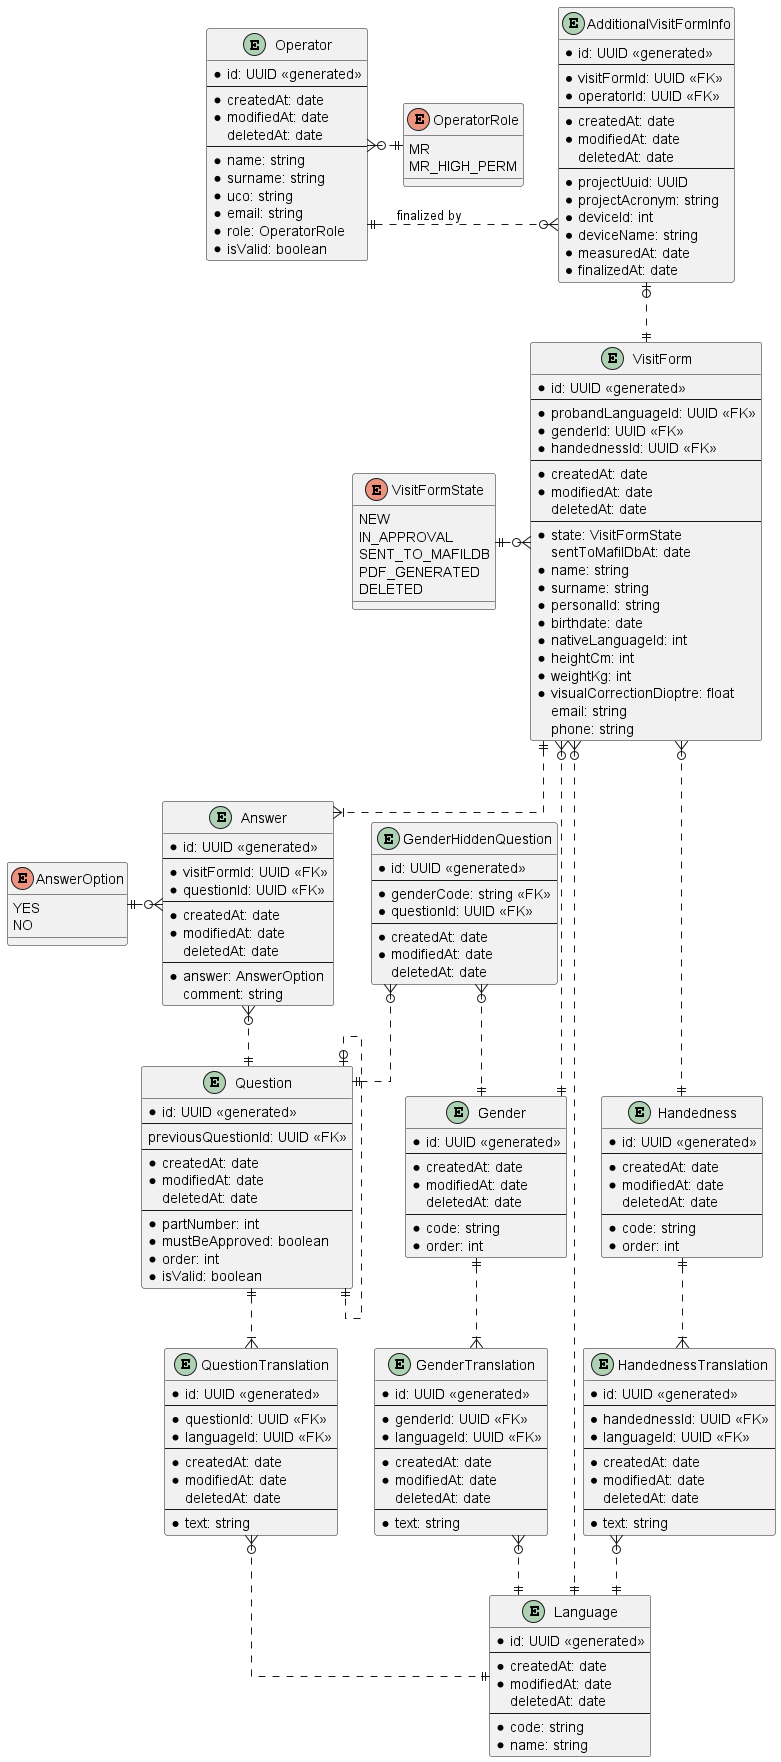
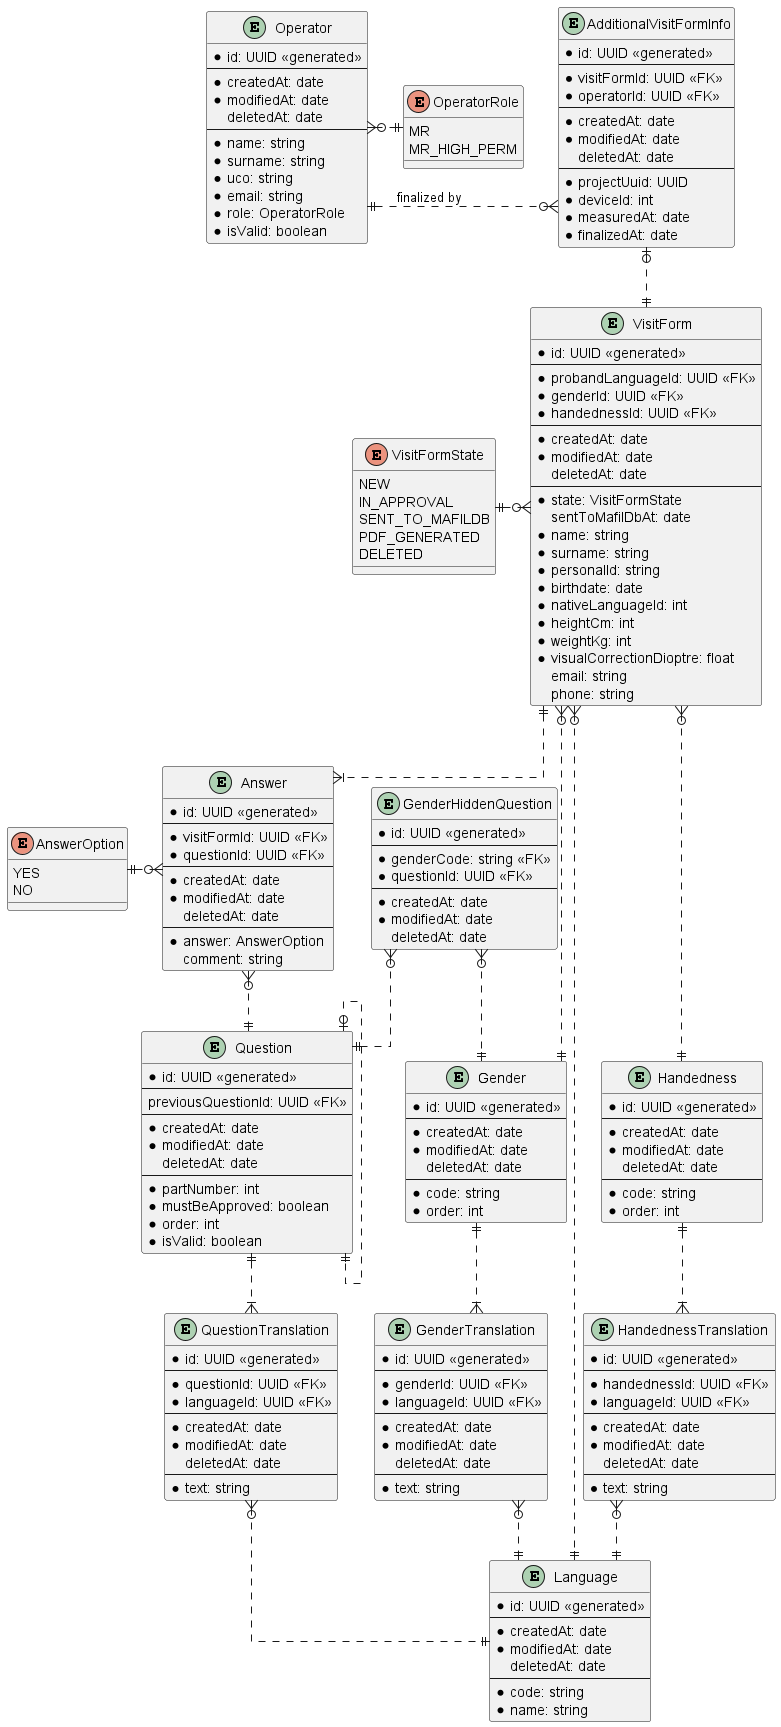
feat: removed project acronym and device name from the additionalVisitFormInfo in the database model

diff --git a/frontend/src/util/server_API/calls.ts b/frontend/src/util/server_API/calls.ts
@@ -6,9 +6,9 @@ import {
   ValidatedProbandFormData,
 } from "@app/model/form";
 import { ProbandVisitLanguageCode } from "@app/model/visit";
+import { IApprovalRoomTableVisitForm } from "@app/model/visitForm";
 import { serverApi } from "@app/util/axios/serverApi";
 import {
-  IApprovalRoomTableVisitFormDTO,
   IApprovalRoomVisitFormIncludingQuestionsDTO,
   ICreateDuplicatedVisitFormForApprovalInput,
   ICreateProbandVisitFormInput,
@@ -28,6 +28,7 @@ import {
   VisitFormState,
 } from "@app/util/server_API/dto";
 import { createServerApiCallError } from "../error-handling/server-utils";
+import { fetchProject } from "../mafildb_API/calls";
 import { CREATE_VISIT_FORM, REMOVE_VISIT_FORM, UPDATE_VISIT_FORM } from "./mutations";
 import {
   AUTHENTICATE_OPERATOR,
@@ -304,18 +305,26 @@ export const fetchWaitingRoomVisitForm = async (
   return { ...visitForm, probandLanguageCode: visitForm.probandLanguage.code, answersIncludingQuestions };
 };
 
-export const fetchApprovalRoomTableVisitForms = async (): Promise<IApprovalRoomTableVisitFormDTO[] | never> => {
+export const fetchApprovalRoomTableVisitForms = async (): Promise<IApprovalRoomTableVisitForm[] | never> => {
   const variables = { state: "IN_APPROVAL" };
   const { data } = await serverApi.post<ApprovalRoomTableVisitFormsResponse>("", {
     query: GET_APPROVAL_ROOM_TABLE_VISIT_FORMS,
     variables,
   });
 
-  if (data.data) {
-    return data.data.visitForms;
+  if (data.data === null || data.data === undefined) {
+    throw createServerApiCallError(data.errors);
   }
 
-  throw createServerApiCallError(data.errors);
+  return Promise.all(
+    data.data.visitForms.map(async (visitForm) => {
+      const project = await fetchProject(visitForm.additionalInfo.projectUuid);
+      return {
+        ...visitForm,
+        project,
+      };
+    })
+  );
 };
 
 export const fetchApprovalRoomVisitForm = async (
@@ -414,9 +423,7 @@ export const createDuplicatedVisitFormForApproval = async (
       phone: visitFormData.phone,
       additionalInfo: {
         projectUuid: visitFormData.project.uuid,
-        projectAcronym: visitFormData.project.acronym,
         deviceId: visitFormData.device.id,
-        deviceName: visitFormData.device.name,
         measuredAt: visitFormData.measuredAt,
         finalizerId,
         finalizedAt: new Date(),
@@ -464,9 +471,7 @@ export const sendVisitFormForApproval = async (
       phone: visitFormData.phone,
       additionalInfo: {
         projectUuid: visitFormData.project.uuid,
-        projectAcronym: visitFormData.project.acronym,
         deviceId: visitFormData.device.id,
-        deviceName: visitFormData.device.name,
         measuredAt: visitFormData.measuredAt,
         finalizedAt: new Date(),
         finalizerId,

diff --git a/frontend/src/pages/ApprovalRoomTablePage.tsx b/frontend/src/pages/ApprovalRoomTablePage.tsx
@@ -7,8 +7,8 @@ import { TranslatedEntityTableCell } from "@app/components/table/TranslatedEntit
 import { ApprovalRoomTableActionButtons } from "@app/components/table/actions/ApprovalRoomTableActionButtons";
 import { defaultTableProps } from "@app/components/table/default-table-props";
 import { defaultNS } from "@app/i18n/i18n";
+import { IApprovalRoomTableVisitForm } from "@app/model/visitForm";
 import { fetchApprovalRoomTableVisitForms } from "@app/util/server_API/calls";
-import { IApprovalRoomTableVisitFormDTO } from "@app/util/server_API/dto";
 import { PageContainer } from "./PageContainer";
 
 const createdAtFormat = "d.M.y H:mm";
@@ -23,7 +23,7 @@ const ApprovalRoomTablePage = () => {
     isError,
   } = useQuery({ queryKey: ["approvalRoomVisitForms"], queryFn: fetchApprovalRoomTableVisitForms });
 
-  const columns = useMemo<MRTColumnDef<IApprovalRoomTableVisitFormDTO>[]>(
+  const columns = useMemo<MRTColumnDef<IApprovalRoomTableVisitForm>[]>(
     () => [
       {
         header: t("header.registrationDate"),
@@ -38,7 +38,7 @@ const ApprovalRoomTablePage = () => {
       },
       {
         header: t("header.project"),
-        accessorKey: "additionalInfo.projectAcronym",
+        accessorKey: "project.acronym",
         minSize: 300,
       },
       {
@@ -67,7 +67,7 @@ const ApprovalRoomTablePage = () => {
         header: t("header.gender"),
         id: "gender",
         // eslint-disable-next-line react/no-unstable-nested-components
-        Cell: ({ row }: { row: MRTRow<IApprovalRoomTableVisitFormDTO> }) => (
+        Cell: ({ row }: { row: MRTRow<IApprovalRoomTableVisitForm> }) => (
           <TranslatedEntityTableCell translations={row.original.gender.translations} />
         ),
         maxSize: 0,
@@ -83,7 +83,7 @@ const ApprovalRoomTablePage = () => {
         id: "actionButtons",
         columnDefType: "display", // turns off data column features like sorting, filtering, etc.
         // eslint-disable-next-line react/no-unstable-nested-components
-        Cell: ({ row }: { row: MRTRow<IApprovalRoomTableVisitFormDTO> }) => (
+        Cell: ({ row }: { row: MRTRow<IApprovalRoomTableVisitForm> }) => (
           <ApprovalRoomTableActionButtons visitFormId={row.original.id} />
         ),
         maxSize: 0,

diff --git a/frontend/src/util/mafildb_API/calls.ts b/frontend/src/util/mafildb_API/calls.ts
@@ -22,6 +22,7 @@ import {
   fetchDuplicatedVisitDev,
   fetchLanguageDev,
   fetchLanguagesDev,
+  fetchProjectDev,
   fetchProjectsDev,
   fetchRecentVisitsDev,
   fetchVisitDetailDev,
@@ -45,6 +46,7 @@ import {
   MDB_GetDevicesResponse,
   MDB_GetLanguageResponse,
   MDB_GetLanguagesResponse,
+  MDB_GetProjectResponse,
   MDB_GetProjectsResponse,
   MDB_GetVisitFilesResponse,
   MDB_GetVisitResponse,
@@ -107,6 +109,20 @@ export const fetchProjects = async (): Promise<IProject[]> => {
   }
 
   return data.results.map((projectDTO) => ({ ...projectDTO }));
+};
+
+export const fetchProject = async (uuid: string): Promise<IProject> => {
+  if (import.meta.env.DEV) {
+    return fetchProjectDev(uuid);
+  }
+
+  const { data } = await mafildbApi.get<MDB_GetProjectResponse>(`projects/${uuid}`);
+
+  if (MDB_RESPONSE_ERROR_ATTR in data) {
+    throw new Error(data.detail);
+  }
+
+  return data;
 };
 
 export const fetchDevices = async (): Promise<IDevice[]> => {

diff --git a/backend/src/api/visit-form/visit-form.service.ts b/backend/src/api/visit-form/visit-form.service.ts
@@ -149,9 +149,7 @@ export class VisitFormService {
                   create: {
                     // properties are checked against undefined, so the values here are always non-undefined
                     projectUuid: updateVisitFormInput.additionalInfo.projectUuid ?? "",
-                    projectAcronym: updateVisitFormInput.additionalInfo.projectAcronym ?? "",
                     deviceId: updateVisitFormInput.additionalInfo.deviceId ?? 0,
-                    deviceName: updateVisitFormInput.additionalInfo.deviceName ?? "",
                     measuredAt: updateVisitFormInput.additionalInfo.measuredAt ?? new Date(),
                     finalizedAt: updateVisitFormInput.additionalInfo.finalizedAt ?? new Date(),
                     finalizer: {

diff --git a/frontend/src/util/server_API/dto.ts b/frontend/src/util/server_API/dto.ts
@@ -109,9 +109,7 @@ export interface IWaitingRoomVisitFormIncludingQuestions extends IWaitingRoomTab
 export interface IApprovalRoomTableVisitFormDTO extends IWaitingRoomTableVisitFormDTO {
   additionalInfo: {
     projectUuid: string;
-    projectAcronym: string;
     deviceId: number;
-    deviceName: string;
     measuredAt: Date;
     finalizer: Pick<IOperatorDTO, "username">;
     finalizedAt: Date;
@@ -132,9 +130,7 @@ export interface IApprovalRoomVisitFormIncludingQuestionsDTO extends IApprovalRo
 
 type AdditionalInfo = {
   projectUuid: string;
-  projectAcronym: string;
   deviceId: number;
-  deviceName: string;
   measuredAt: Date;
   finalizerId: string;
   finalizedAt: Date;

diff --git a/backend/src/api/pdf/dto/generate-pdf.args.ts b/backend/src/api/pdf/dto/generate-pdf.args.ts
@@ -45,7 +45,7 @@ export class GeneratePDFArgs extends IntersectionType(
     "email",
     "phone",
   ] as const),
-  PickType(AdditionalVisitFormInfoEntity, ["projectAcronym", "measuredAt"] as const),
+  PickType(AdditionalVisitFormInfoEntity, ["measuredAt"] as const),
   ArgsType
 ) {
   @IsString()
@@ -55,6 +55,11 @@ export class GeneratePDFArgs extends IntersectionType(
   @IsBoolean()
   @Field()
   isPhantom: boolean;
+
+  // MAFILDB project acronym
+  @IsString()
+  @Field()
+  projectAcronym: string;
 
   @IsString()
   @Field()

diff --git a/frontend/src/components/form/inputs/FormAutocompleteProjects.tsx b/frontend/src/components/form/inputs/FormAutocompleteProjects.tsx
@@ -30,7 +30,7 @@ export const FormAutocompleteProjects = ({
           <Autocomplete
             id={name}
             options={options === undefined ? [] : options}
-            getOptionLabel={(option: IProject) => getProjectText(option)}
+            getOptionLabel={getProjectText}
             isOptionEqualToValue={(option, value) => option.uuid === value.uuid}
             value={field.value}
             onChange={(_event, val) => field.onChange(val)}

diff --git a/frontend/src/util/mafildb_API/calls.dev.ts b/frontend/src/util/mafildb_API/calls.dev.ts
@@ -29,6 +29,9 @@ export const fetchSubjectsDev = async (): Promise<ISubject[]> => subjectsTest;
 
 export const fetchProjectsDev = async (): Promise<IProject[]> => projectsTest;
 
+export const fetchProjectDev = async (uuid: string): Promise<IProject> =>
+  projectsTest.find((project) => uuid === project.uuid) ?? projectsTest[0];
+
 export const fetchDevicesDev = async (): Promise<IDevice[]> => devicesTest;
 
 export const createVisitDev = async (

diff --git a/backend/src/api/visit-form/entities/additional-visit-form-info.entity.ts b/backend/src/api/visit-form/entities/additional-visit-form-info.entity.ts
@@ -33,21 +33,11 @@ export class AdditionalVisitFormInfoEntity extends BaseEntity implements Additio
   @Field()
   projectUuid: string;
 
-  // MAFILDB project acronym
-  @MaxLength(30)
-  @Field()
-  projectAcronym: string;
-
   // MAFILDB device ID
   @IsNumber()
   @IsPositive()
   @Field(() => Int)
   deviceId: number;
-
-  // MAFILDB device name
-  @MaxLength(200)
-  @Field()
-  deviceName: string;
 
   @IsDate()
   @Field()

diff --git a/backend/src/api/visit-form/dto/create-additional-visit-form-info.input.ts b/backend/src/api/visit-form/dto/create-additional-visit-form-info.input.ts
@@ -4,6 +4,6 @@ import { AdditionalVisitFormInfoEntity } from "@app/api/visit-form/entities/addi
 @InputType()
 export class CreateAdditionalVisitFormInfoInput extends PickType(
   AdditionalVisitFormInfoEntity,
-  ["projectUuid", "projectAcronym", "deviceId", "deviceName", "measuredAt", "finalizerId", "finalizedAt"] as const,
+  ["projectUuid", "deviceId", "measuredAt", "finalizerId", "finalizedAt"] as const,
   InputType
 ) {}

diff --git a/frontend/src/util/mafildb_API/response-types.ts b/frontend/src/util/mafildb_API/response-types.ts
@@ -30,6 +30,8 @@ export type MDB_GetLanguageResponse = MDB_GetOneResponse<MDB_ILanguageDTO>;
 
 export type MDB_GetProjectsResponse = MDB_GetManyResponse<MDB_IProjectDTO>;
 
+export type MDB_GetProjectResponse = MDB_GetOneResponse<MDB_IProjectDTO>;
+
 export type MDB_GetDevicesResponse = MDB_GetManyResponse<MDB_IDeviceDTO>;
 
 export type MDB_CreateSubjectResponse = MDB_GetOneResponse<MDB_ISubjectDTO>;

diff --git a/frontend/src/components/form/util/__tests__/loaders.test.ts b/frontend/src/components/form/util/__tests__/loaders.test.ts
@@ -58,9 +58,7 @@ const approvalRoomVisitForm: IApprovalRoomVisitFormIncludingQuestionsDTO = {
   answersIncludingQuestions: [{ ...answerIncludingQuestion, comment: "comment" }],
   additionalInfo: {
     projectUuid: "1552314",
-    projectAcronym: "Proj1",
     deviceId: 6552515,
-    deviceName: "M1",
     measuredAt: new Date(),
     finalizer: operatorMRTest,
     finalizedAt: new Date(),
